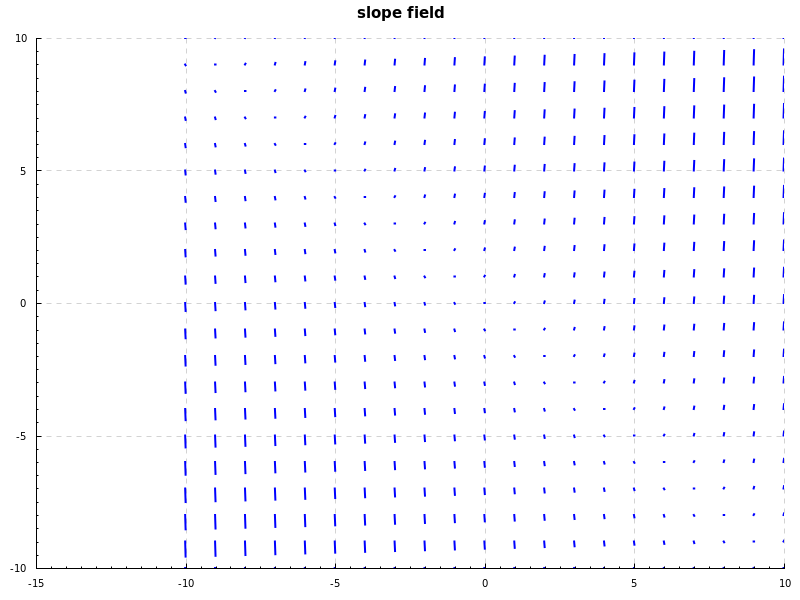
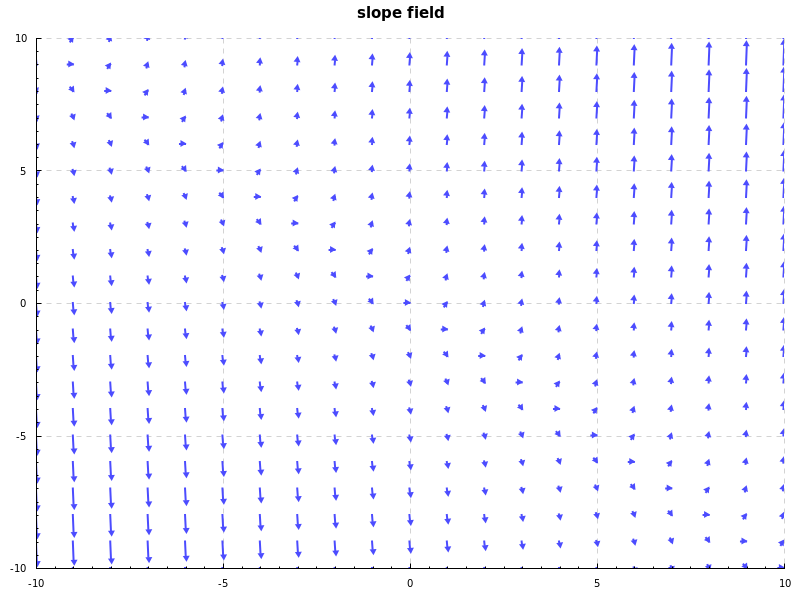
feat: add arrow heads fix: wasted space generated around the field

diff --git a/README.md b/README.md
@@ -60,7 +60,7 @@ estimation size:
 dy/dx = 
 y/x
 range - format: (lower, upper): 
-(-10, 10)
+(-20, 20)
 estimation size: 
 0.1
 ```
